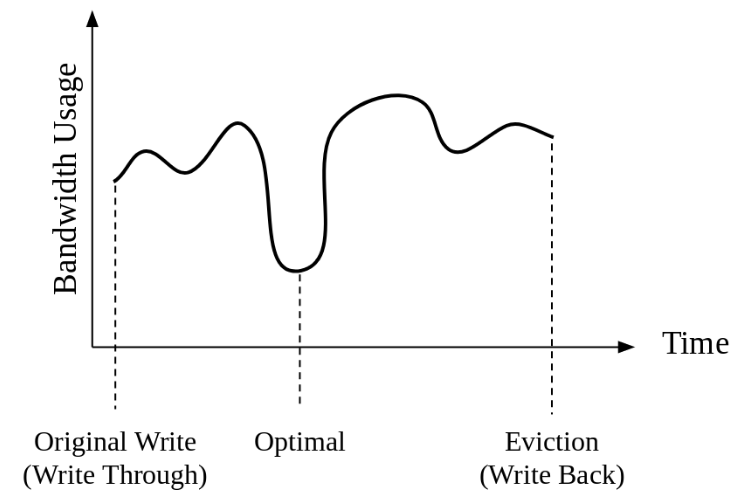
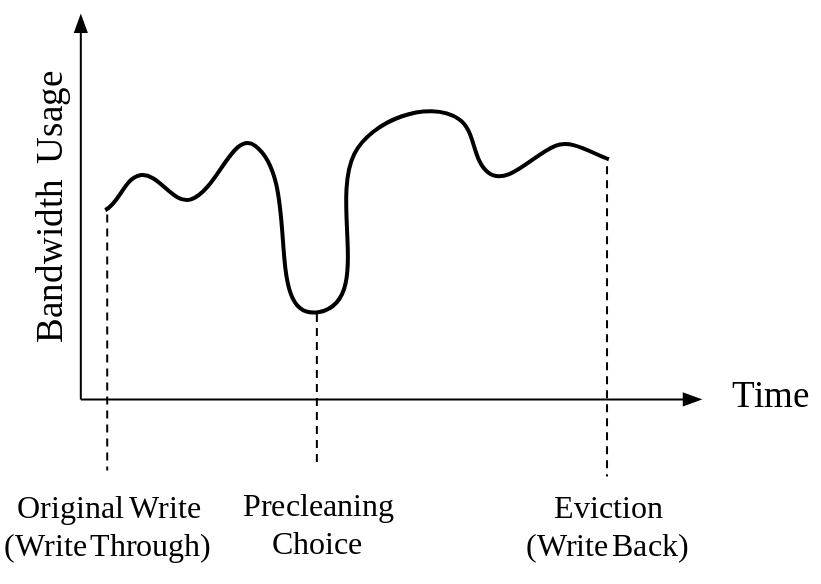
Rip entire first page

diff --git a/intro.tex b/intro.tex
@@ -1,15 +1,16 @@
 \chapter{Introduction}
-\index{Introduction@\emph{Introduction}}
-%\index{Making Tables and Including Figures@\emph{Making Tables
-%	and Including Figures}}%
 
-GPUs cater to highly parallel and regular computation patterns. While GPUs provide hardware specifically tailored for parallel problems, good GPU performance relies on programs exhibiting behavior that can be partitioned into separate threads of computation. Warps are what we call a collection of threads that run in lock-step, and all threads within a warp should run similar code and access relatively nearby data in memory. Data-divergence occurs when these warps overload lower-level memory systems by accessing many different pieces of data simultaneously. Our goal in this paper, with both Hawkeye and precleaning, is to limit and offset the negative performance impacts of both data-divergence and poorly optimized access patterns.
+In this report, we explore Hawkeye cache replacement and cache precleaning, two methods for improving performance of GPU memory systems. The first idea improves upon L1 and L2 cache replacement policies by implementing Hawkeye \cite{hawkeye}. Hawkeye learns from a delayed computation of the optimal cache replacement policy. The second idea, which we refer to as precleaning, avoids memory system stalls by commiting write-backs at a time of low bandwidth usage rather than at the time of eviction.
 
-Computer architects have been using caches and smart cache replacement policies to hide the latency of predictable memory operations for decades \cite{deadblock,lruperf,cache_burst,dip,eva,rrip} [can cite quite a few here]. Caches decide to hold on to heavily reused memory lines to hide latency of repeated memory accesses. LRU is the baseline replacement policy for most caches as it is easy to reason about and performs well considering its relative simplicity. LRU can’t handle complex access patterns like streaming and does not store any information on lines previously evicted from the cache. Thus when GPU code starts to exhibit data-divergent behaviour, a cache that can handle irregular or complex access patterns can filter out some of the requests that would otherwise overload our main memory. By providing a proven and theoretically sound approach to cache replacement, we hope to improve performance on GPU programs that would previously see no benefit from the cache due to said programs’ abnormal access patterns.
+GPUs cater to highly parallel and regular data access patterns. While GPUs provide hardware specifically tailored for parallel problems, good GPU performance relies on programs exhibiting behavior that can be partitioned into thousands of highly regular threads executing the same code. Warps are what we call a collection of threads that run in lock-step, and all threads within a warp should run similar code and access relatively nearby data in memory. Data divergence occurs when these warps overload lower-level memory systems by exhibiting irregular access patterns and accessing multiple different cache lines simultaneously. Our goal in this paper, with both Hawkeye and precleaning, is to limit and offset the negative performance impacts of both data-divergence and poorly optimized data access patterns.
 
-Our goal is to evaluate and use Hawkeye \cite{hawkeye}, a CPU cache replacement policy that excels at capturing complex data reuse patterns. Hawkeye prefers to evict lines similar to other lower performing lines in the OPTGen algorithm, an online approximation of Belady’s optimal cache replacement policy. We evaluate features, such as warp ID and PC, that we believe work well in a GPU context. We also explore the application of Hawkeye in both the L1 and L2 caches.
+Computer architects have been using caches and smart cache replacement policies to hide the latency of predictable memory operations for decades \cite{deadblock,lruperf,cache_burst,dip,eva,rrip}. Caches ideally stores all data that will be accessed by the machine in the near future, hiding latency of memory accesses on the critical path. Unfortunately, cache memory is expensive and limited, thus architects rely on cache replacement policies to decide what data will be the most useful in the future.
 
-We believe we can improve performance of our caches beyond just changing replacement policies. Write-through and write-back caches are the two main ways that modern caches handle mutable data within the cache. Write-through caches immediately write modified data back to their backing store (such as a lower level cache or DRAM). On the other hand, write-back caches delay committing writes to their backing store until the associated line is evicted. This delay in commiting writes is possible because non-atomic writes are off the critical path, meaning the processor will never need to stall for a non-atomic write. Write-back caches tend to be more efficient than write-through caches as write-through caches require an access to lower level memory for every single write. While the strategy of writing back at the last possible moment might be the most convenient, it is not necessarily the most optimal time for data to be written back to lower level memory. Writing back at the time of eviction can be especially problematic in GPUs when unoptimized parallel code causes many simultaneous evictions. The key takeaway is that, rather than a binary choice of write-through and write-back, we actually have a full spectrum of choices to choose from when cleaning dirty cache lines. Please refer to Figure \ref{f:bandwidth_optimal} for a visualization of this spectrum.
+Least Recently Used (LRU) is the baseline replacement policy for most caches as it is easy to reason about and performs well considering its relative simplicity. LRU does not store any information on lines previously evicted from the cache. Because of this lack of additional meta-data, LRU generally doesn't work well with access patterns with working sets that exceed the size of the cache. A cache with a more sophisticated replacement policy that can handle irregular or complex data access patterns can filter out some of the requests that would otherwise overload the GPU's main memory. By providing a proven approach to cache replacement on CPUs, we hope to improve performance on GPU programs that would previously see no benefit from the cache due to said programs’ data access patterns.
+
+Our first idea for improving GPU memory system performance is to use Hawkeye, a CPU cache replacement policy that learns from the theoretically optimal cache replacement decisions for previous accesses to the cache. Hawkeye prefers to evict lines similar to other lower performing lines in the OPTGen algorithm, an online approximation of Belady’s optimal cache replacement policy. Hawkeye evaluates similarities between lines by comparing their defining features, such as warp ID and Program Counter (PC). Features help us correlate performance within OPTGen with future performance of lines with identical features. We also explore the application of Hawkeye in both the L1 and L2 caches.
+
+Precleaning, our second idea for improving memory system performance, aims to spread out the bandwidth usage by writing back dirty cache lines at times of lower bandwidth usage. Write-through and write-back caches are the two main ways that modern caches handle mutable data within the cache. Write-through caches immediately write modified data back to their backing store (such as a lower level cache or DRAM). On the other hand, write-back caches delay committing writes to their backing store until the associated line is evicted. This delay in commiting writes is possible because non-atomic writes are off the critical path, meaning the processor will never need to stall for a non-atomic write. Write-back caches tend to be more efficient than write-through caches as write-through caches require an access to lower level memory for every single write. While the strategy of writing back at the last possible moment might be the most convenient, it is not necessarily the best time for data to be written back to lower level memory. Writing back at the time of eviction can be especially problematic in GPUs when unoptimized parallel code causes many simultaneous evictions. The key takeaway is that, rather than a binary choice of write-through and write-back, we actually have a full spectrum of choices to choose from when cleaning dirty cache lines. Please refer to Figure \ref{f:bandwidth_optimal} for a visualization of this spectrum.
 
 \begin{figure}[htb]
 \begin{center}
@@ -20,4 +21,4 @@ We believe we can improve performance of our caches beyond just changing replace
 \end{figure}
 \index{commands!environments!figure}%
 
-To further improve GPU memory system performance, we would like to use previous data and current memory bandwidth usage levels to know when it’s best to write back modified cache lines. We believe that GPUs are a good fit for this problem due to the parallel nature of the hardware. Making accesses to memory across many cores increases the chances of multiple write-backs being triggered around the same time. GPUs are very reliant on having adequate bandwidth available to hide latency across all cores. When bandwidth saturates, our code will effectively start to serialize, causing us to lose the performance benefits of our parallel architecture. A perfect solution would evenly spread out all write-back traffic, preventing bandwidth spikes that could stall our GPU cores.
+To further improve GPU memory system performance, we would like to use previous data and current memory bandwidth usage levels to determine a better time to write back modified cache lines. We believe that GPUs are a good fit for this problem due to the parallel nature of the hardware. Making accesses to memory across many cores increases the chances of multiple write-backs being triggered around the same time. GPUs rely on having adequate bandwidth available to hide latency across all cores. When bandwidth saturates, code executing on the GPU will effectively start to serialize, which negates the performance benefits of using a GPU. A perfect solution would evenly spread out all write-back traffic, preventing bandwidth spikes that could stall our GPU cores.

diff --git a/preclean.tex b/preclean.tex
@@ -282,9 +282,12 @@
 \utabstract
 \index{Abstract}%
 \indent
-This report evaluates potential Instruction Per Clock (IPC) improvements of replacement policies and bandwidth management in GPU caching. Over the past semester, my research has focused on applying the Hawkeye cache replacement policy on GPUs and exploring headroom of preemptively writing back dirty cache lines. In the interest of time and convenience, this report will cover both Hawkeye and precleaning despite each idea being fairly distinct and lacking overlap in implementation.
+This report evaluates two distinct methods of improving the performance of GPU memory systems. Over the past semester, my research has focused on applying the Hawkeye cache replacement policy on GPUs and exploring headroom of preemptively writing back dirty cache lines.
+%In the interest of time and convenience, this report will cover both Hawkeye and precleaning despite each idea being fairly distinct and lacking overlap in implementation.
 
-Our first goal is to reduce L1 and L2 GPU cache miss rates by implementing the Hawkeye cache replacement policy, a reinforcement learning algorithm.  Reinforcement learning requires constant input from an oracle to determine if its predictions are performing well. By using OPTGen, an online approximation of optimal cache replacement, Hawkeye attempts to learn the when cache lines have a high chance of reuse. While we show promising performance improvements with Hawkeye, only a select few GPU benchmarks are sensitive to the performance of the cache. We believe that algorithms that require large, complex access patterns but show little to no code-divergence are where Hawkeye can provide the most performance benefits. From our experiments, we show that Hawkeye, on average, tends to do better than if not on par with Least Recently Used (LRU) as a cache replacement policy.
+Our first goal is to reduce L1 and L2 GPU cache miss rates by implementing the Hawkeye cache replacement policy. Hawkeye calculates the optimal cache replacement policy on previous cache accesses in order to train its predictor for future caching decisions. While we show promising performance improvements with Hawkeye, only a select few GPU benchmarks are sensitive to the performance of the cache. From our experiments, we show that Hawkeye, on average, gives an IPC improvement of 3.57\% and 0.56\% over Least Recently Used (LRU) when applied to the L1 and L2 caches respectively.
+
+%Reinforcement learning requires constant input from an oracle to determine if its predictions are performing well. By using OPTGen, an online, delayed calculation of optimal cache replacement, Hawkeye attempts to learn when cache lines have a high chance of reuse. 
 
 We also introduce the idea of precleaning, an alternative to write-back or write-through caching that aims to spread out write bandwidth. Committing L2 writes to main memory when memory congestion is low can hide or lower the performance impact of said write. The idea of precleaning shows promise, but evaluating precleaning fully requires more research in GPU access patterns and prediction techniques.
 
